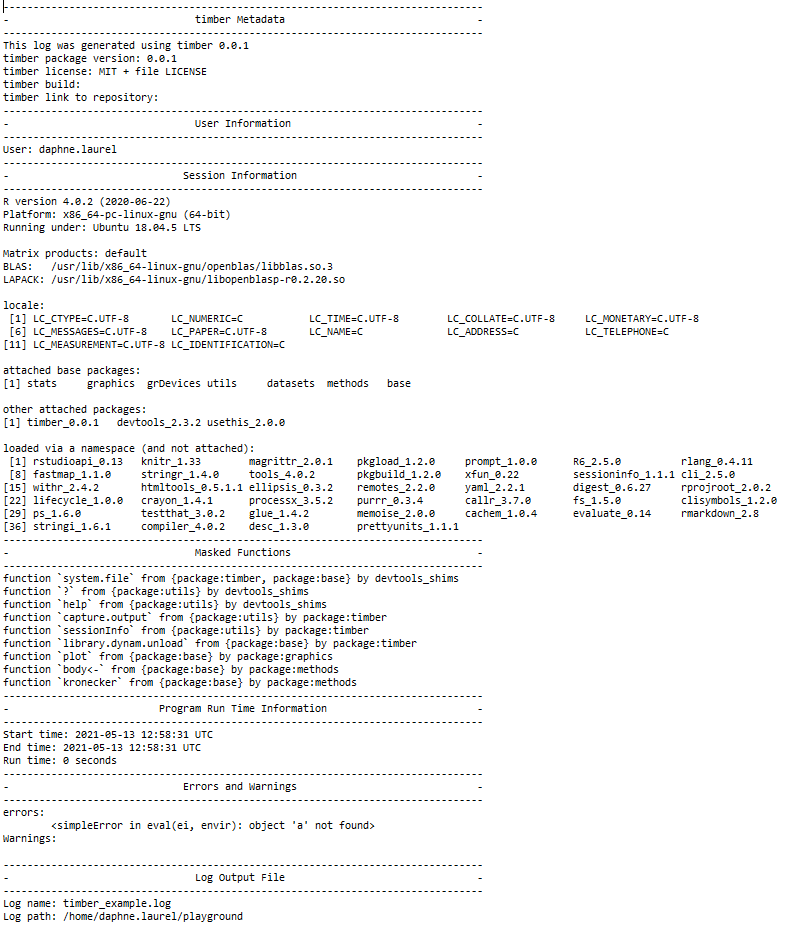
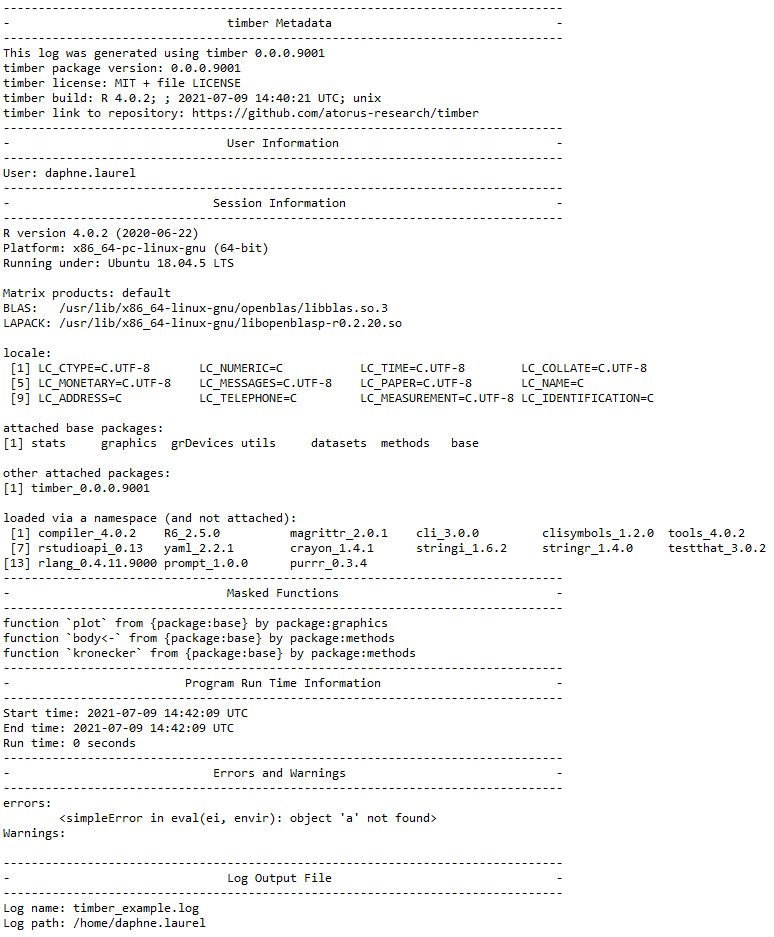
Built site for timber: 0.0.0.9001@5df97d7

diff --git a/reference/get_session_info.html b/reference/get_session_info.html
@@ -80,7 +80,7 @@
       </button>
       <span class="navbar-brand">
         <a class="navbar-link" href="../index.html">timber</a>
-        <span class="version label label-default" data-toggle="tooltip" data-placement="bottom" title="Released version">0.0.0.9000</span>
+        <span class="version label label-default" data-toggle="tooltip" data-placement="bottom" title="Released version">0.0.0.9001</span>
       </span>
     </div>
 
@@ -137,13 +137,13 @@
 
     <h2 class="hasAnchor" id="examples"><a class="anchor" href="#examples"></a>Examples</h2>
     <pre class="examples"><div class='input'><span class='fu'>get_session_info</span><span class='op'>(</span><span class='op'>)</span>
-</div><div class='output co'>#&gt;  [1] "R version 4.0.5 (2021-03-31)"                                                       
+</div><div class='output co'>#&gt;  [1] "R version 4.1.0 (2021-05-18)"                                                       
 #&gt;  [2] "Platform: x86_64-apple-darwin17.0 (64-bit)"                                         
 #&gt;  [3] "Running under: macOS Catalina 10.15.7"                                              
 #&gt;  [4] ""                                                                                   
 #&gt;  [5] "Matrix products: default"                                                           
-#&gt;  [6] "BLAS:   /Library/Frameworks/R.framework/Versions/4.0/Resources/lib/libRblas.dylib"  
-#&gt;  [7] "LAPACK: /Library/Frameworks/R.framework/Versions/4.0/Resources/lib/libRlapack.dylib"
+#&gt;  [6] "BLAS:   /Library/Frameworks/R.framework/Versions/4.1/Resources/lib/libRblas.dylib"  
+#&gt;  [7] "LAPACK: /Library/Frameworks/R.framework/Versions/4.1/Resources/lib/libRlapack.dylib"
 #&gt;  [8] ""                                                                                   
 #&gt;  [9] "locale:"                                                                            
 #&gt; [10] "[1] en_US.UTF-8/en_US.UTF-8/en_US.UTF-8/C/en_US.UTF-8/en_US.UTF-8"                  
@@ -152,21 +152,21 @@
 #&gt; [13] "[1] stats     graphics  grDevices utils     datasets  methods   base     "          
 #&gt; [14] ""                                                                                   
 #&gt; [15] "other attached packages:"                                                           
-#&gt; [16] "[1] timber_0.0.0.9000"                                                              
+#&gt; [16] "[1] timber_0.0.0.9001"                                                              
 #&gt; [17] ""                                                                                   
 #&gt; [18] "loaded via a namespace (and not attached):"                                         
-#&gt; [19] " [1] pillar_1.6.1      compiler_4.0.5    tools_4.0.5       digest_0.6.27    "       
+#&gt; [19] " [1] pillar_1.6.1      compiler_4.1.0    tools_4.1.0       digest_0.6.27    "       
 #&gt; [20] " [5] downlit_0.2.1     memoise_2.0.0     evaluate_0.14     lifecycle_1.0.0  "       
-#&gt; [21] " [9] tibble_3.1.2      pkgconfig_2.0.3   rlang_0.4.11      cli_2.5.0        "       
-#&gt; [22] "[13] curl_4.3.1        yaml_2.2.1        pkgdown_1.6.1     xfun_0.23        "       
-#&gt; [23] "[17] fastmap_1.1.0     withr_2.4.2       httr_1.4.2        stringr_1.4.0    "       
-#&gt; [24] "[21] knitr_1.33        xml2_1.3.2        systemfonts_1.0.2 desc_1.3.0       "       
-#&gt; [25] "[25] fs_1.5.0          vctrs_0.3.8       rprojroot_2.0.2   glue_1.4.2       "       
-#&gt; [26] "[29] R6_2.5.0          textshaping_0.3.4 processx_3.5.2    fansi_0.4.2      "       
-#&gt; [27] "[33] rmarkdown_2.8     callr_3.7.0       purrr_0.3.4       magrittr_2.0.1   "       
-#&gt; [28] "[37] rematch2_2.1.2    whisker_0.4       ps_1.6.0          ellipsis_0.3.2   "       
-#&gt; [29] "[41] htmltools_0.5.1.1 ragg_1.1.2        utf8_1.2.1        stringi_1.6.2    "       
-#&gt; [30] "[45] cachem_1.0.5      crayon_1.4.1     "                                           </div><div class='input'>
+#&gt; [21] " [9] tibble_3.1.2      pkgconfig_2.0.3   rlang_0.4.11      cli_3.0.0        "       
+#&gt; [22] "[13] rstudioapi_0.13   curl_4.3.2        yaml_2.2.1        pkgdown_1.6.1    "       
+#&gt; [23] "[17] xfun_0.24         fastmap_1.1.0     stringr_1.4.0     withr_2.4.2      "       
+#&gt; [24] "[21] httr_1.4.2        knitr_1.33        xml2_1.3.2        systemfonts_1.0.2"       
+#&gt; [25] "[25] desc_1.3.0        fs_1.5.0          vctrs_0.3.8       rprojroot_2.0.2  "       
+#&gt; [26] "[29] glue_1.4.2        R6_2.5.0          textshaping_0.3.5 processx_3.5.2   "       
+#&gt; [27] "[33] fansi_0.5.0       rmarkdown_2.9     callr_3.7.0       purrr_0.3.4      "       
+#&gt; [28] "[37] magrittr_2.0.1    rematch2_2.1.2    whisker_0.4       ps_1.6.0         "       
+#&gt; [29] "[41] ellipsis_0.3.2    htmltools_0.5.1.1 ragg_1.1.3        utf8_1.2.1       "       
+#&gt; [30] "[45] stringi_1.6.2     cachem_1.0.5      crayon_1.4.1     "                         </div><div class='input'>
 </div></pre>
   </div>
   <div class="col-md-3 hidden-xs hidden-sm" id="pkgdown-sidebar">

diff --git a/index.html b/index.html
@@ -5,7 +5,7 @@
 <meta charset="utf-8">
 <meta http-equiv="X-UA-Compatible" content="IE=edge">
 <meta name="viewport" content="width=device-width, initial-scale=1.0">
-<title>What the Package Does (One Line, Title Case) • timber</title>
+<title>A Logging Utility Focus on Clinical Trial Programming Workflows • timber</title>
 <!-- favicons --><link rel="icon" type="image/png" sizes="16x16" href="favicon-16x16.png">
 <link rel="icon" type="image/png" sizes="32x32" href="favicon-32x32.png">
 <link rel="apple-touch-icon" type="image/png" sizes="180x180" href="apple-touch-icon.png">
@@ -17,8 +17,8 @@
 <script src="bootstrap-toc.js"></script><!-- Font Awesome icons --><link rel="stylesheet" href="https://cdnjs.cloudflare.com/ajax/libs/font-awesome/5.12.1/css/all.min.css" integrity="sha256-mmgLkCYLUQbXn0B1SRqzHar6dCnv9oZFPEC1g1cwlkk=" crossorigin="anonymous">
 <link rel="stylesheet" href="https://cdnjs.cloudflare.com/ajax/libs/font-awesome/5.12.1/css/v4-shims.min.css" integrity="sha256-wZjR52fzng1pJHwx4aV2AO3yyTOXrcDW7jBpJtTwVxw=" crossorigin="anonymous">
 <!-- clipboard.js --><script src="https://cdnjs.cloudflare.com/ajax/libs/clipboard.js/2.0.6/clipboard.min.js" integrity="sha256-inc5kl9MA1hkeYUt+EC3BhlIgyp/2jDIyBLS6k3UxPI=" crossorigin="anonymous"></script><!-- headroom.js --><script src="https://cdnjs.cloudflare.com/ajax/libs/headroom/0.11.0/headroom.min.js" integrity="sha256-AsUX4SJE1+yuDu5+mAVzJbuYNPHj/WroHuZ8Ir/CkE0=" crossorigin="anonymous"></script><script src="https://cdnjs.cloudflare.com/ajax/libs/headroom/0.11.0/jQuery.headroom.min.js" integrity="sha256-ZX/yNShbjqsohH1k95liqY9Gd8uOiE1S4vZc+9KQ1K4=" crossorigin="anonymous"></script><!-- pkgdown --><link href="pkgdown.css" rel="stylesheet">
-<script src="pkgdown.js"></script><meta property="og:title" content="What the Package Does (One Line, Title Case)">
-<meta property="og:description" content="A package to facilitate the logging and review of R programs in a clinical environment.">
+<script src="pkgdown.js"></script><meta property="og:title" content="A Logging Utility Focus on Clinical Trial Programming Workflows">
+<meta property="og:description" content="A package to facilitate the logging and review of R programs in clinical trial programming workflows.">
 <meta property="og:image" content="/logo.png">
 <!-- mathjax --><script src="https://cdnjs.cloudflare.com/ajax/libs/mathjax/2.7.5/MathJax.js" integrity="sha256-nvJJv9wWKEm88qvoQl9ekL2J+k/RWIsaSScxxlsrv8k=" crossorigin="anonymous"></script><script src="https://cdnjs.cloudflare.com/ajax/libs/mathjax/2.7.5/config/TeX-AMS-MML_HTMLorMML.js" integrity="sha256-84DKXVJXs0/F8OTMzX4UR909+jtl4G7SPypPavF+GfA=" crossorigin="anonymous"></script><!--[if lt IE 9]>
 <script src="https://oss.maxcdn.com/html5shiv/3.7.3/html5shiv.min.js"></script>
@@ -38,7 +38,7 @@
       </button>
       <span class="navbar-brand">
         <a class="navbar-link" href="index.html">timber</a>
-        <span class="version label label-default" data-toggle="tooltip" data-placement="bottom" title="Released version">0.0.0.9000</span>
+        <span class="version label label-default" data-toggle="tooltip" data-placement="bottom" title="Released version">0.0.0.9001</span>
       </span>
     </div>
 
@@ -105,7 +105,6 @@
 <h2 class="hasAnchor">
 <a href="#future-development" class="anchor"></a>Future development</h2>
 <p>While this development version has been released, the development team is still making improvements to the package. This release is intended to give access to the core functionality of <code>timber</code> while it is still being developed. While the main functions and functionality have already been created, there are still many behind the scenes items that need to be addressed.</p>
-<p>The main item we still need to address is unit testing. While functional testing has been done during development, the package still lacks unit tests. We believe that the functions will work as intended currently, we will be adding unit tests in an upcoming release. We intend to not change the function names or functionality during this development so that anyone using the package can continue using it even after updates.</p>
 </div>
 </div>
   </div>

diff --git a/reference/axecute.html b/reference/axecute.html
@@ -80,7 +80,7 @@
       </button>
       <span class="navbar-brand">
         <a class="navbar-link" href="../index.html">timber</a>
-        <span class="version label label-default" data-toggle="tooltip" data-placement="bottom" title="Released version">0.0.0.9000</span>
+        <span class="version label label-default" data-toggle="tooltip" data-placement="bottom" title="Released version">0.0.0.9001</span>
       </span>
     </div>
 
@@ -128,7 +128,7 @@
     <p>Create a log and run a file</p>
     </div>
 
-    <pre class="usage"><span class='fu'>axecute</span><span class='op'>(</span><span class='va'>file</span>, log_name <span class='op'>=</span> <span class='cn'>NA</span>, log_path <span class='op'>=</span> <span class='cn'>NA</span><span class='op'>)</span></pre>
+    <pre class="usage"><span class='fu'>axecute</span><span class='op'>(</span><span class='va'>file</span>, log_name <span class='op'>=</span> <span class='cn'>NA</span>, log_path <span class='op'>=</span> <span class='cn'>NA</span>, remove_log_object <span class='op'>=</span> <span class='cn'>TRUE</span><span class='op'>)</span></pre>
 
     <h2 class="hasAnchor" id="arguments"><a class="anchor" href="#arguments"></a>Arguments</h2>
     <table class="ref-arguments">
@@ -145,6 +145,10 @@
       <th>log_path</th>
       <td><p>Path to output log to</p></td>
     </tr>
+    <tr>
+      <th>remove_log_object</th>
+      <td><p>Should the log object be removed after writing, defaults to TRUE</p></td>
+    </tr>
     </table>
 
     <h2 class="hasAnchor" id="value"><a class="anchor" href="#value"></a>Value</h2>
@@ -160,7 +164,7 @@
 
 <span class='fu'>axecute</span><span class='op'>(</span><span class='va'>scriptPath</span><span class='op'>)</span>
 <span class='fu'>axecute</span><span class='op'>(</span><span class='va'>scriptPath</span>, log_name <span class='op'>=</span> <span class='st'>"log_out"</span>, log_path <span class='op'>=</span> <span class='va'>logDir</span><span class='op'>)</span>
-</div><div class='output co'>#&gt; <span class='warning'>Warning: log_name already assigned, will not be overwritten</span></div><div class='output co'>#&gt; <span class='warning'>Warning: log_path already assigned, will not be overwritten</span></div><div class='input'>
+
 </div></pre>
   </div>
   <div class="col-md-3 hidden-xs hidden-sm" id="pkgdown-sidebar">

diff --git a/reference/write_metadata.html b/reference/write_metadata.html
@@ -80,7 +80,7 @@
       </button>
       <span class="navbar-brand">
         <a class="navbar-link" href="../index.html">timber</a>
-        <span class="version label label-default" data-toggle="tooltip" data-placement="bottom" title="Released version">0.0.0.9000</span>
+        <span class="version label label-default" data-toggle="tooltip" data-placement="bottom" title="Released version">0.0.0.9001</span>
       </span>
     </div>
 
@@ -137,11 +137,11 @@
 
     <h2 class="hasAnchor" id="examples"><a class="anchor" href="#examples"></a>Examples</h2>
     <pre class="examples"><div class='input'><span class='fu'>write_metadata</span><span class='op'>(</span><span class='op'>)</span>
-</div><div class='output co'>#&gt; [1] "This log was generated using timber 0.0.0.9000"        
-#&gt; [2] "timber package version: 0.0.0.9000"                    
-#&gt; [3] "timber license: MIT + file LICENSE"                    
-#&gt; [4] "timber build: R 4.0.5; ; 2021-05-21 13:36:15 UTC; unix"
-#&gt; [5] "timber link to repository: "                           </div><div class='input'>
+</div><div class='output co'>#&gt; [1] "This log was generated using timber 0.0.0.9001"                      
+#&gt; [2] "timber package version: 0.0.0.9001"                                  
+#&gt; [3] "timber license: MIT + file LICENSE"                                  
+#&gt; [4] "timber build: R 4.1.0; ; 2021-07-12 15:09:45 UTC; unix"              
+#&gt; [5] "timber link to repository: https://github.com/atorus-research/timber"</div><div class='input'>
 </div></pre>
   </div>
   <div class="col-md-3 hidden-xs hidden-sm" id="pkgdown-sidebar">

diff --git a/reference/log_config.html b/reference/log_config.html
@@ -80,7 +80,7 @@
       </button>
       <span class="navbar-brand">
         <a class="navbar-link" href="../index.html">timber</a>
-        <span class="version label label-default" data-toggle="tooltip" data-placement="bottom" title="Released version">0.0.0.9000</span>
+        <span class="version label label-default" data-toggle="tooltip" data-placement="bottom" title="Released version">0.0.0.9001</span>
       </span>
     </div>
 
@@ -128,7 +128,7 @@
     <p>Configures the timber.log environment</p>
     </div>
 
-    <pre class="usage"><span class='fu'>log_config</span><span class='op'>(</span>file <span class='op'>=</span> <span class='cn'>NA</span><span class='op'>)</span></pre>
+    <pre class="usage"><span class='fu'>log_config</span><span class='op'>(</span>file <span class='op'>=</span> <span class='cn'>NA</span>, log_name <span class='op'>=</span> <span class='cn'>NA</span>, log_path <span class='op'>=</span> <span class='cn'>NA</span><span class='op'>)</span></pre>
 
     <h2 class="hasAnchor" id="arguments"><a class="anchor" href="#arguments"></a>Arguments</h2>
     <table class="ref-arguments">
@@ -136,6 +136,14 @@
     <tr>
       <th>file</th>
       <td><p>File path of file being run, optional</p></td>
+    </tr>
+    <tr>
+      <th>log_name</th>
+      <td><p>The log name</p></td>
+    </tr>
+    <tr>
+      <th>log_path</th>
+      <td><p>The log path</p></td>
     </tr>
     </table>
 

diff --git a/reference/log_write.html b/reference/log_write.html
@@ -80,7 +80,7 @@
       </button>
       <span class="navbar-brand">
         <a class="navbar-link" href="../index.html">timber</a>
-        <span class="version label label-default" data-toggle="tooltip" data-placement="bottom" title="Released version">0.0.0.9000</span>
+        <span class="version label label-default" data-toggle="tooltip" data-placement="bottom" title="Released version">0.0.0.9001</span>
       </span>
     </div>
 
@@ -128,8 +128,16 @@
     <p>Write the formatted timber.log to a file</p>
     </div>
 
-    <pre class="usage"><span class='fu'>log_write</span><span class='op'>(</span><span class='op'>)</span></pre>
+    <pre class="usage"><span class='fu'>log_write</span><span class='op'>(</span>remove_log_object <span class='op'>=</span> <span class='cn'>TRUE</span><span class='op'>)</span></pre>
 
+    <h2 class="hasAnchor" id="arguments"><a class="anchor" href="#arguments"></a>Arguments</h2>
+    <table class="ref-arguments">
+    <colgroup><col class="name" /><col class="desc" /></colgroup>
+    <tr>
+      <th>remove_log_object</th>
+      <td><p>Should the log object be removed after writing, defaults to TRUE</p></td>
+    </tr>
+    </table>
 
     <h2 class="hasAnchor" id="value"><a class="anchor" href="#value"></a>Value</h2>
 

diff --git a/reference/get_timber_metadata.html b/reference/get_timber_metadata.html
@@ -80,7 +80,7 @@
       </button>
       <span class="navbar-brand">
         <a class="navbar-link" href="../index.html">timber</a>
-        <span class="version label label-default" data-toggle="tooltip" data-placement="bottom" title="Released version">0.0.0.9000</span>
+        <span class="version label label-default" data-toggle="tooltip" data-placement="bottom" title="Released version">0.0.0.9001</span>
       </span>
     </div>
 
@@ -138,19 +138,19 @@
     <h2 class="hasAnchor" id="examples"><a class="anchor" href="#examples"></a>Examples</h2>
     <pre class="examples"><div class='input'><span class='fu'>get_timber_metadata</span><span class='op'>(</span><span class='op'>)</span>
 </div><div class='output co'>#&gt; $info
-#&gt; [1] "This log was generated using timber 0.0.0.9000"
+#&gt; [1] "This log was generated using timber 0.0.0.9001"
 #&gt; 
 #&gt; $version
-#&gt; [1] "0.0.0.9000"
+#&gt; [1] "0.0.0.9001"
 #&gt; 
 #&gt; $license
 #&gt; [1] "MIT + file LICENSE"
 #&gt; 
 #&gt; $built
-#&gt; [1] "R 4.0.5; ; 2021-05-21 13:36:15 UTC; unix"
+#&gt; [1] "R 4.1.0; ; 2021-07-12 15:09:45 UTC; unix"
 #&gt; 
 #&gt; $repository_link
-#&gt; NULL
+#&gt; [1] "https://github.com/atorus-research/timber"
 #&gt; </div><div class='input'>
 </div></pre>
   </div>

diff --git a/reference/write_log_element.html b/reference/write_log_element.html
@@ -80,7 +80,7 @@
       </button>
       <span class="navbar-brand">
         <a class="navbar-link" href="../index.html">timber</a>
-        <span class="version label label-default" data-toggle="tooltip" data-placement="bottom" title="Released version">0.0.0.9000</span>
+        <span class="version label label-default" data-toggle="tooltip" data-placement="bottom" title="Released version">0.0.0.9001</span>
       </span>
     </div>
 
@@ -128,7 +128,7 @@
     <p>Generic function to format timber.log elements for writing</p>
     </div>
 
-    <pre class="usage"><span class='fu'>write_log_element</span><span class='op'>(</span><span class='va'>el_key</span>, <span class='va'>prefix</span><span class='op'>)</span></pre>
+    <pre class="usage"><span class='fu'>write_log_element</span><span class='op'>(</span><span class='va'>el_key</span>, prefix <span class='op'>=</span> <span class='cn'>NULL</span><span class='op'>)</span></pre>
 
     <h2 class="hasAnchor" id="arguments"><a class="anchor" href="#arguments"></a>Arguments</h2>
     <table class="ref-arguments">

diff --git a/reference/set_log_name_path.html b/reference/set_log_name_path.html
@@ -95,7 +95,7 @@ As timber_log.log and . if none of the above are specified
       </button>
       <span class="navbar-brand">
         <a class="navbar-link" href="../index.html">timber</a>
-        <span class="version label label-default" data-toggle="tooltip" data-placement="bottom" title="Released version">0.0.0.9000</span>
+        <span class="version label label-default" data-toggle="tooltip" data-placement="bottom" title="Released version">0.0.0.9001</span>
       </span>
     </div>
 

diff --git a/articles/index.html b/articles/index.html
@@ -79,7 +79,7 @@
       </button>
       <span class="navbar-brand">
         <a class="navbar-link" href="../index.html">timber</a>
-        <span class="version label label-default" data-toggle="tooltip" data-placement="bottom" title="Released version">0.0.0.9000</span>
+        <span class="version label label-default" data-toggle="tooltip" data-placement="bottom" title="Released version">0.0.0.9001</span>
       </span>
     </div>
 

diff --git a/articles/timber.html b/articles/timber.html
@@ -38,7 +38,7 @@
       </button>
       <span class="navbar-brand">
         <a class="navbar-link" href="../index.html">timber</a>
-        <span class="version label label-default" data-toggle="tooltip" data-placement="bottom" title="Released version">0.0.0.9000</span>
+        <span class="version label label-default" data-toggle="tooltip" data-placement="bottom" title="Released version">0.0.0.9001</span>
       </span>
     </div>
 

diff --git a/reference/get_file_path.html b/reference/get_file_path.html
@@ -80,7 +80,7 @@
       </button>
       <span class="navbar-brand">
         <a class="navbar-link" href="../index.html">timber</a>
-        <span class="version label label-default" data-toggle="tooltip" data-placement="bottom" title="Released version">0.0.0.9000</span>
+        <span class="version label label-default" data-toggle="tooltip" data-placement="bottom" title="Released version">0.0.0.9001</span>
       </span>
     </div>
 
